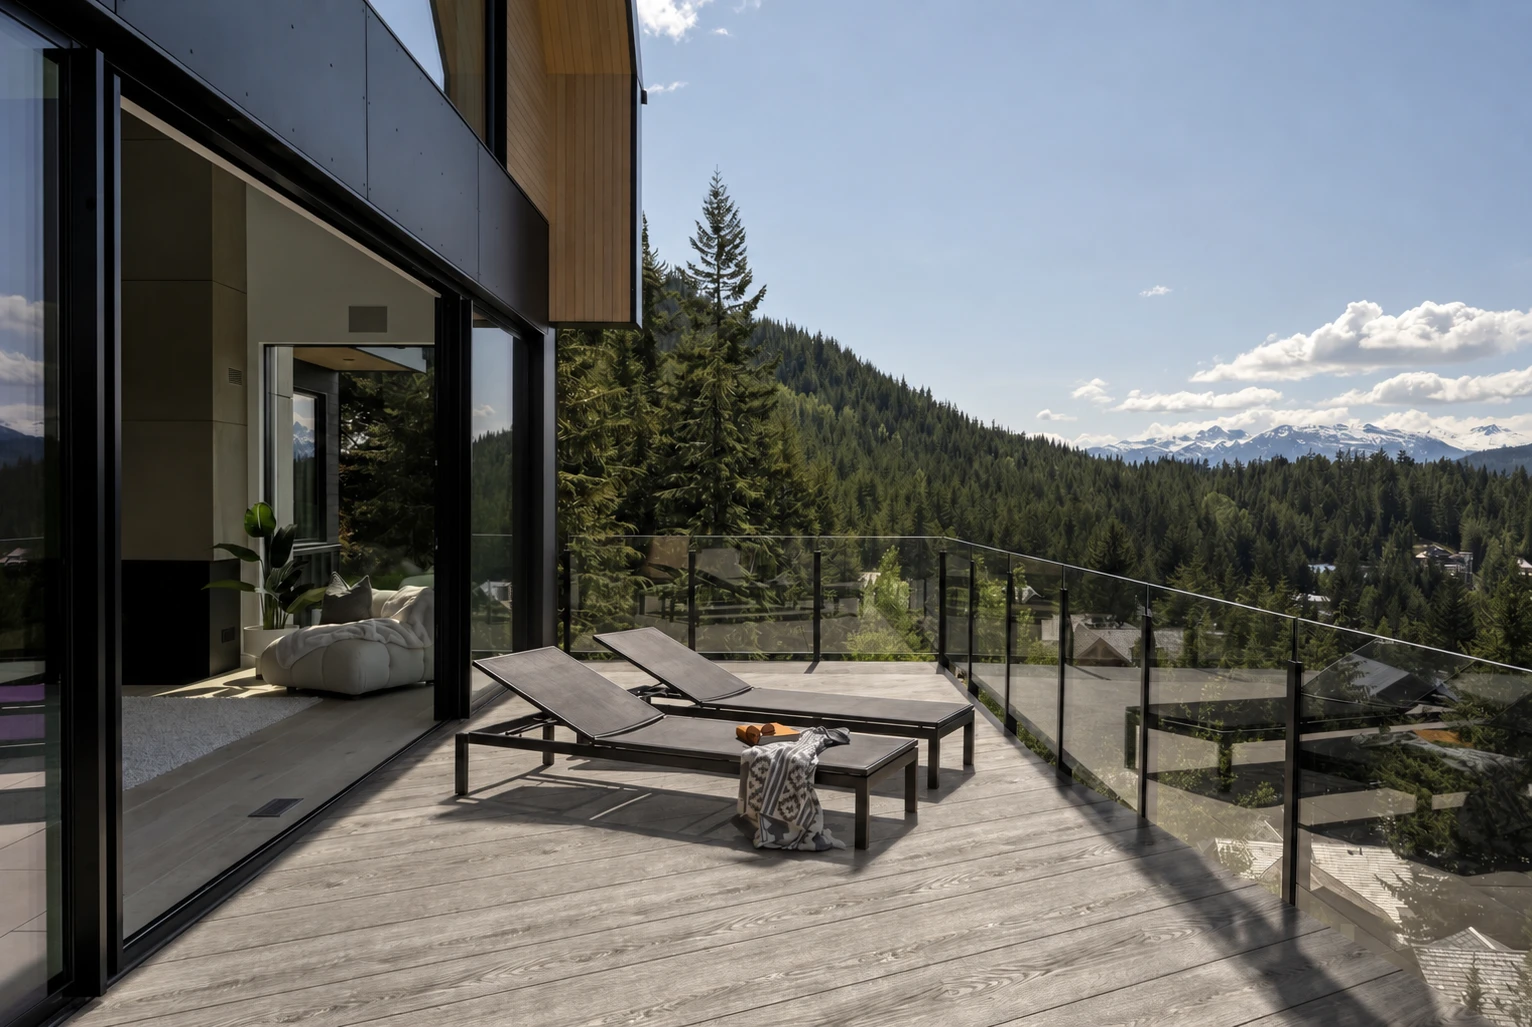
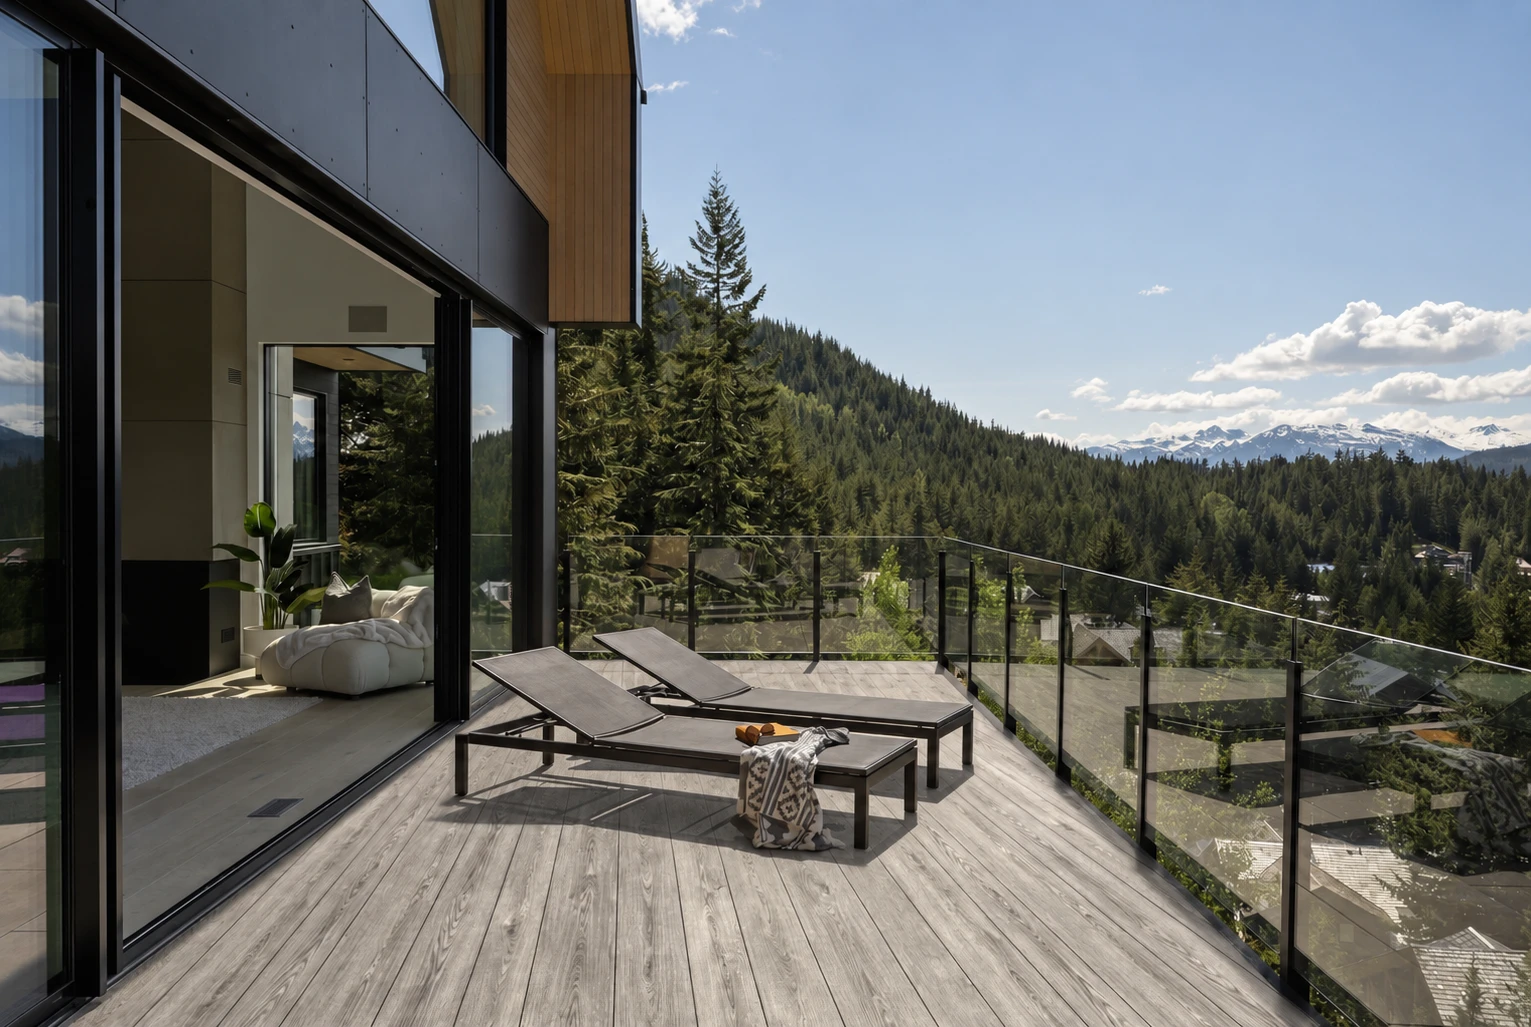
Straight-plank woodgrains run away from the camera on all three decks
Per Mike (Sep 25): boards should run the length of the deck, away from
the camera, following the outside (railing) edge when the two edges
are not parallel. Ipe, Walnut and Driftwood re-laid that way on
Oceanview, Glass rail and Backyard. Chevrons and speckles unchanged.
Each render checked at full size for a single continuous direction:
the old Backyard renders had the relight pass drifting the pattern
into two directions with a seam.

diff --git a/src/config/stockCombos.ts b/src/config/stockCombos.ts
@@ -11,47 +11,47 @@
 /** combo id -> short content hash of the approved file (cache key) */
 export const STOCK_COMBOS: Record<string, string> = {
   "backyard__boardwalk": "99d4709f",
-  "backyard__driftwood": "67224b91",
+  "backyard__driftwood": "8eebd639",
   "backyard__granite-brown": "35925403",
   "backyard__granite-grey": "81f8dc39",
   "backyard__granite-silver": "06ddcdfe",
   "backyard__granite-tan": "7ca735cf",
   "backyard__hansberry": "60c2bd2d",
-  "backyard__ipe": "894dc798",
+  "backyard__ipe": "7bb22c82",
   "backyard__speckled-stone-brown": "dfd521be",
   "backyard__speckled-stone-grey": "037003c9",
   "backyard__speckled-stone-silver": "c7a1abbc",
   "backyard__speckled-stone-tan": "59fc5194",
   "backyard__urban-mist": "87d01fe4",
-  "backyard__walnut": "6f6d2203",
+  "backyard__walnut": "6122dbc1",
   "glassrail__boardwalk": "672c8a4b",
-  "glassrail__driftwood": "994d7349",
+  "glassrail__driftwood": "8435e17e",
   "glassrail__granite-brown": "83e8ed15",
   "glassrail__granite-grey": "971dc38d",
   "glassrail__granite-silver": "a16ae4ee",
   "glassrail__granite-tan": "9b59c7d1",
   "glassrail__hansberry": "3dce68b8",
-  "glassrail__ipe": "b64adb77",
+  "glassrail__ipe": "9cd9fc8b",
   "glassrail__speckled-stone-brown": "46c3ae1d",
   "glassrail__speckled-stone-grey": "57e46e3b",
   "glassrail__speckled-stone-silver": "31f2c8c2",
   "glassrail__speckled-stone-tan": "d1721dc4",
   "glassrail__urban-mist": "b2dc6d6e",
-  "glassrail__walnut": "63dbccd6",
+  "glassrail__walnut": "e70b1908",
   "lakeview__boardwalk": "65ba4a8c",
-  "lakeview__driftwood": "193bfff9",
+  "lakeview__driftwood": "12a0eaa0",
   "lakeview__granite-brown": "41790e18",
   "lakeview__granite-grey": "85b632b1",
   "lakeview__granite-silver": "441a3a9b",
   "lakeview__granite-tan": "9da43966",
   "lakeview__hansberry": "c07c6b0a",
-  "lakeview__ipe": "8d7fe7b7",
+  "lakeview__ipe": "6c49b27a",
   "lakeview__speckled-stone-brown": "4d1c6c58",
   "lakeview__speckled-stone-grey": "fd4ea3bb",
   "lakeview__speckled-stone-silver": "04b6a9ca",
   "lakeview__speckled-stone-tan": "b0de2616",
   "lakeview__urban-mist": "2354e021",
-  "lakeview__walnut": "389bc4fe"
+  "lakeview__walnut": "eefd24da"
 };
 
 export function hasStockCombo(layoutId: string, sku: string): boolean {
